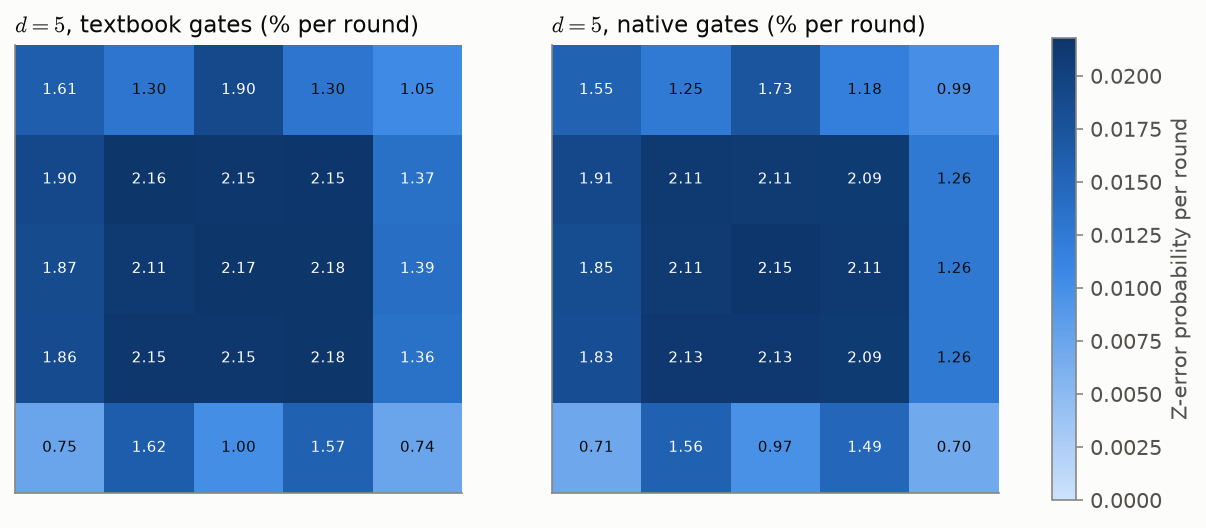
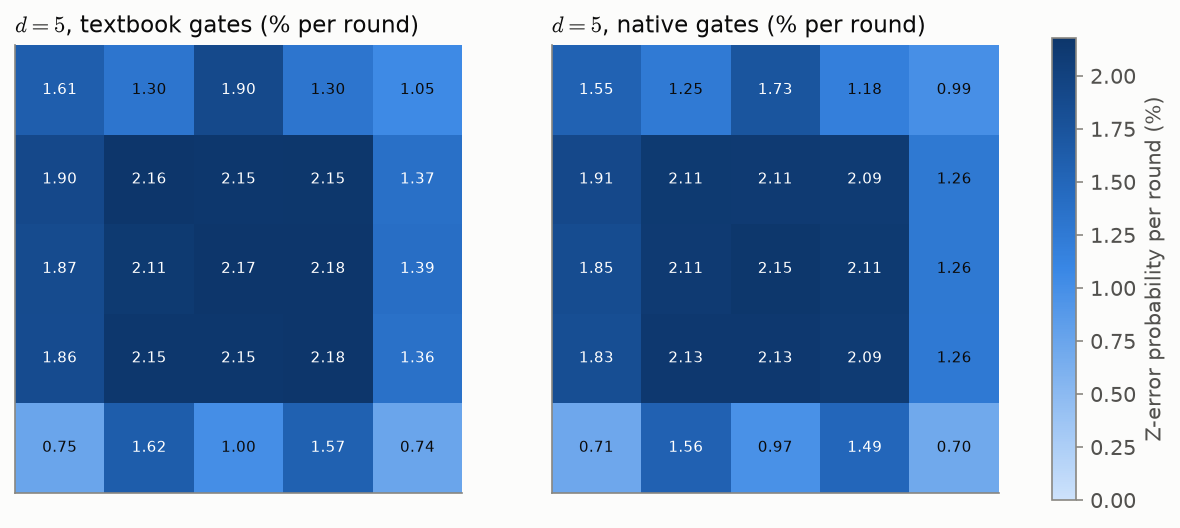
Notebook 05: heatmap colour bar in percent, matching the cell labels

diff --git a/notebooks/_build.py b/notebooks/_build.py
@@ -711,19 +711,19 @@ for r in pq["rows"]:
 code('''
 rows = [r for r in pq["rows"] if r["d"] == max(x["d"] for x in pq["rows"])]
 fig, axes = plt.subplots(1, len(rows), figsize=(4.6 * len(rows), 4))
-vmax = max(max(r["z"]["total"]) for r in rows)
+vmax = 100 * max(max(r["z"]["total"]) for r in rows)          # percent
 for ax, r in zip(np.atleast_1d(axes), rows):
     d = r["d"]; M = np.full((d, d), np.nan)
     for (row, col), v in zip(r["grid"], r["z"]["total"]):
-        M[int(row), int(col)] = v
+        M[int(row), int(col)] = 100 * v
     im = ax.imshow(M, cmap=P.sequential_cmap(), vmin=0, vmax=vmax)
     for i in range(d):
         for j in range(d):
-            ax.text(j, i, f"{M[i, j] * 100:.2f}", ha="center", va="center", fontsize=7,
+            ax.text(j, i, f"{M[i, j]:.2f}", ha="center", va="center", fontsize=7,
                     color="white" if M[i, j] > 0.6 * vmax else P.INK)
     ax.set_xticks([]); ax.set_yticks([]); ax.grid(False)
     ax.set_title(rf"$d = {d}$, {r['gates']} gates (% per round)", loc="left")
-fig.colorbar(im, ax=axes, label="Z-error probability per round", fraction=0.03)
+fig.colorbar(im, ax=axes, label="Z-error probability per round (%)", fraction=0.03)
 '''),
 code('''
 r = next(x for x in pq["rows"] if x["d"] == min(y["d"] for y in pq["rows"]) and x["gates"] == "native")
